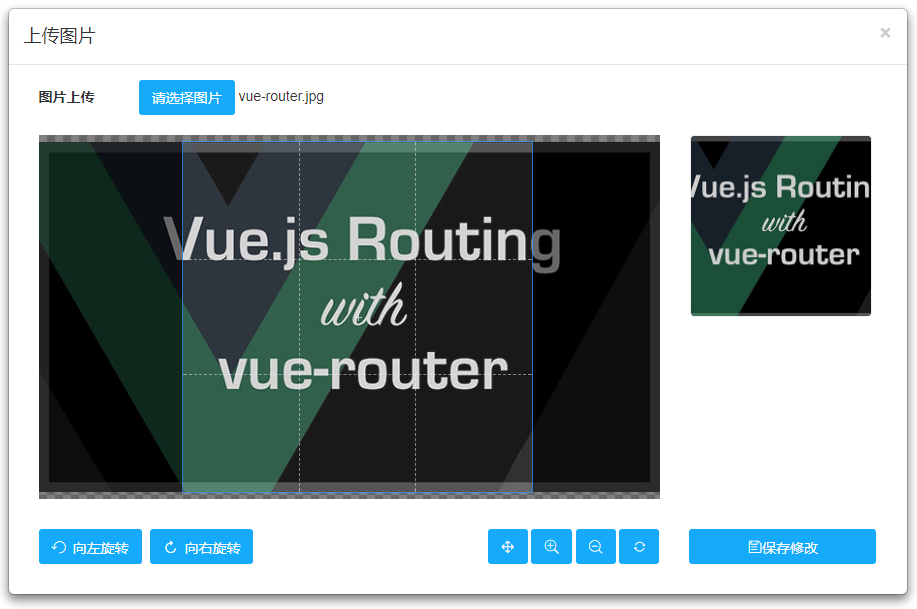
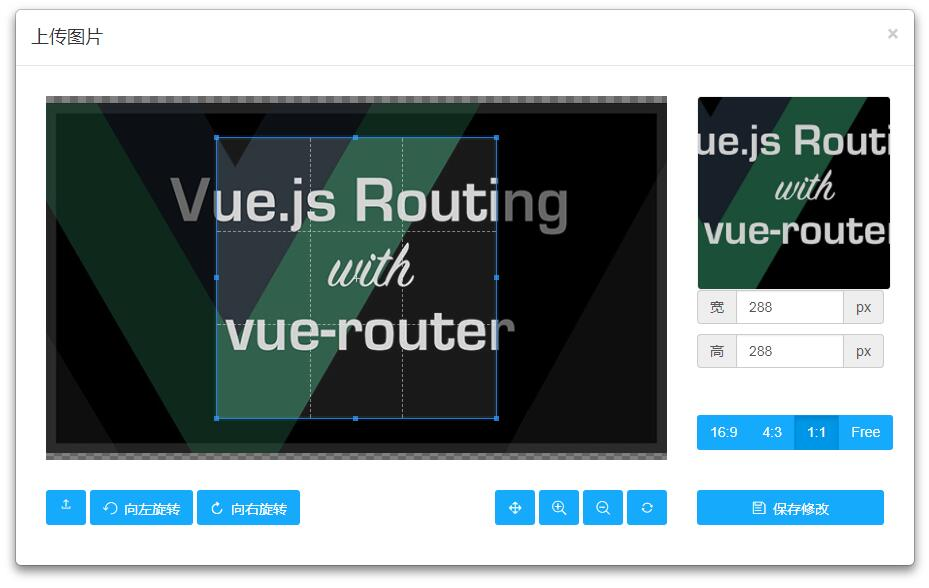
Update readme

diff --git a/README.md b/README.md
@@ -28,9 +28,10 @@
  <button type="button" class="btn customBlue"  data-toggle="modal" data-target="#avatar-modal" style="margin: 10px;">修改头像</button>
 
  <!-- 弹窗内容 - 开始 -->
- <div class="modal fade" id="avatar-modal" aria-hidden="true" aria-labelledby="avatar-modal-label" role="dialog" tabindex="-1">
+<div class="modal fade" id="avatar-modal" aria-hidden="true" aria-labelledby="avatar-modal-label" role="dialog" tabindex="-1">
     <div class="modal-dialog modal-lg">
         <div class="modal-content">
+            <!--<form class="avatar-form" action="upload-logo.php" enctype="multipart/form-data" method="post">-->
             <form class="avatar-form">
                 <div class="modal-header">
                     <button class="close" data-dismiss="modal" type="button">&times;</button>
@@ -38,25 +39,41 @@
                 </div>
                 <div class="modal-body">
                     <div class="avatar-body">
-                        <div class="avatar-upload">
-                            <input class="avatar-src" name="avatar_src" type="hidden">
-                            <input class="avatar-data" name="avatar_data" type="hidden">
-                            <label for="avatarInput" style="line-height: 35px;">图片上传</label>
-                            <button class="btn customBlue"  type="button" style="height: 35px;" onClick="$('input[id=avatarInput]').click();">请选择图片</button>
-                            <span id="avatar-name"></span>
-                            <input class="avatar-input hide" id="avatarInput" name="avatar_file" type="file"></div>
                         <div class="row">
                             <div class="col-md-9">
-                                <div class="avatar-wrapper"></div>
+                                <div class="avatar-wrapper"><img id="image" src="" alt=""></div>
                             </div>
                             <div class="col-md-3">
+                              <div class="avatar-toggles">
                                 <div class="avatar-preview preview-lg" id="imageHead"></div>
-                                <!--<div class="avatar-preview preview-md"></div>
-                                <div class="avatar-preview preview-sm"></div>-->
+                                <!-- <div class="avatar-preview preview-md"></div>
+                                <div class="avatar-preview preview-sm"></div> -->
+                                <div class="input-group">
+						            <label class="input-group-addon" for="dataWidth">宽</label>
+						            <input type="text" class="form-control" id="dataWidth" placeholder="width">
+						            <span class="input-group-addon">px</span>
+						        </div>
+						        <div class="input-group">
+						        	<label class="input-group-addon" for="dataHeight">高</label>
+						        	<input type="text" class="form-control" id="dataHeight" placeholder="height">
+						            <span class="input-group-addon">px</span>
+						        </div>
+						        <div class="btn-group d-flex flex-nowrap" data-toggle="buttons">
+						          <label class="btn customBlue"><input type="radio" class="sr-only" id="aspectRatio0" name="aspectRatio" value="1.7777777777777777">16:9</label>
+						          <label class="btn customBlue"><input type="radio" class="sr-only" id="aspectRatio1" name="aspectRatio" value="1.3333333333333333">4:3</label>
+						          <label class="btn customBlue"><input type="radio" class="sr-only" id="aspectRatio2" name="aspectRatio" value="1">1:1</label>
+						          <label class="btn customBlue"><input type="radio" class="sr-only" id="aspectRatio4" name="aspectRatio" value="NaN">Free</label>
+						        </div>
+						      </div>
                             </div>
                         </div>
-                        <div class="row avatar-btns">
+                        <div class="row avatar-btns docs-buttons">
                             <div class="col-md-4">
+                            	<div class="btn-group">
+                            	    <label class="btn customBlue icon-upload" for="inputImage" title="上专图片">
+						                <input type="file" class="sr-only J_inputImage" id="inputImage" name="file" accept=".jpg,.jpeg,.png,.gif,.bmp,.tiff">
+						            </label>
+						        </div>
                                 <div class="btn-group">
                                     <button class="btn customBlue icon-undo" data-method="rotate" data-option="-90" type="button"> 向左旋转</button>
                                 </div>
@@ -71,7 +88,7 @@
                                 <button type="button" class="btn customBlue icon-refresh" data-method="reset" title="重置图片"></button>
                             </div>
                             <div class="col-md-3">
-                                <button class="btn customBlue btn-block avatar-save icon-save" type="button"> 保存修改</button>
+                                <button class="btn customBlue btn-block avatar-save icon-save" type="button" data-method="getCroppedCanvas"> 保存修改</button>
                             </div>
                         </div>
                     </div>
@@ -80,35 +97,25 @@
         </div>
     </div>
 </div>
+<!-- 弹窗内容 - 结束 -->
 ```
 
 * 执行函数（根据业务需求，配置相关信息及回调函数即可）
 ```html
  <script type="text/javascript">
 
-	$(".avatar-save").on("click", function() {
-		var img_lg = document.getElementById('imageHead');
-		html2canvas(img_lg, {
-			allowTaint: true,
-			taintTest: false,
-			onrendered: function(canvas) {
-				canvas.id = "mycanvas";
-				var dataUrl = canvas.toDataURL("image/jpeg");
-				var newImg = document.createElement("img");
-				newImg.src = dataUrl;
-				fn.imagesAjax({
-					'url':'http://www.domain.com/updata.php',  // 配置后台上传地址
-					'data':{                                   // 配置后台上传AJAX的data属性
-						'img':dataUrl                          // 图片是 dataUrl
-					}
-				},function(){
-					alert('上传成功啦！');			// 上传成功后的回调函数
-				})
-			}
-		});
-	})	
+    function uploadCropper(){
+    	// First: Get new cropper result.
+    	var newPic = $('.avatar-save').attr('href');
 
- </script>
+    	// Do everything what you want to do.
+    	// For Example:
+    	 $('.avatar-form .close').trigger('click');
+    	 $('body').append('<img id="pic">');
+    	 $('#pic').attr('src',newPic);
+
+    }
+</script>
 ```
 
 ## 资源网站
